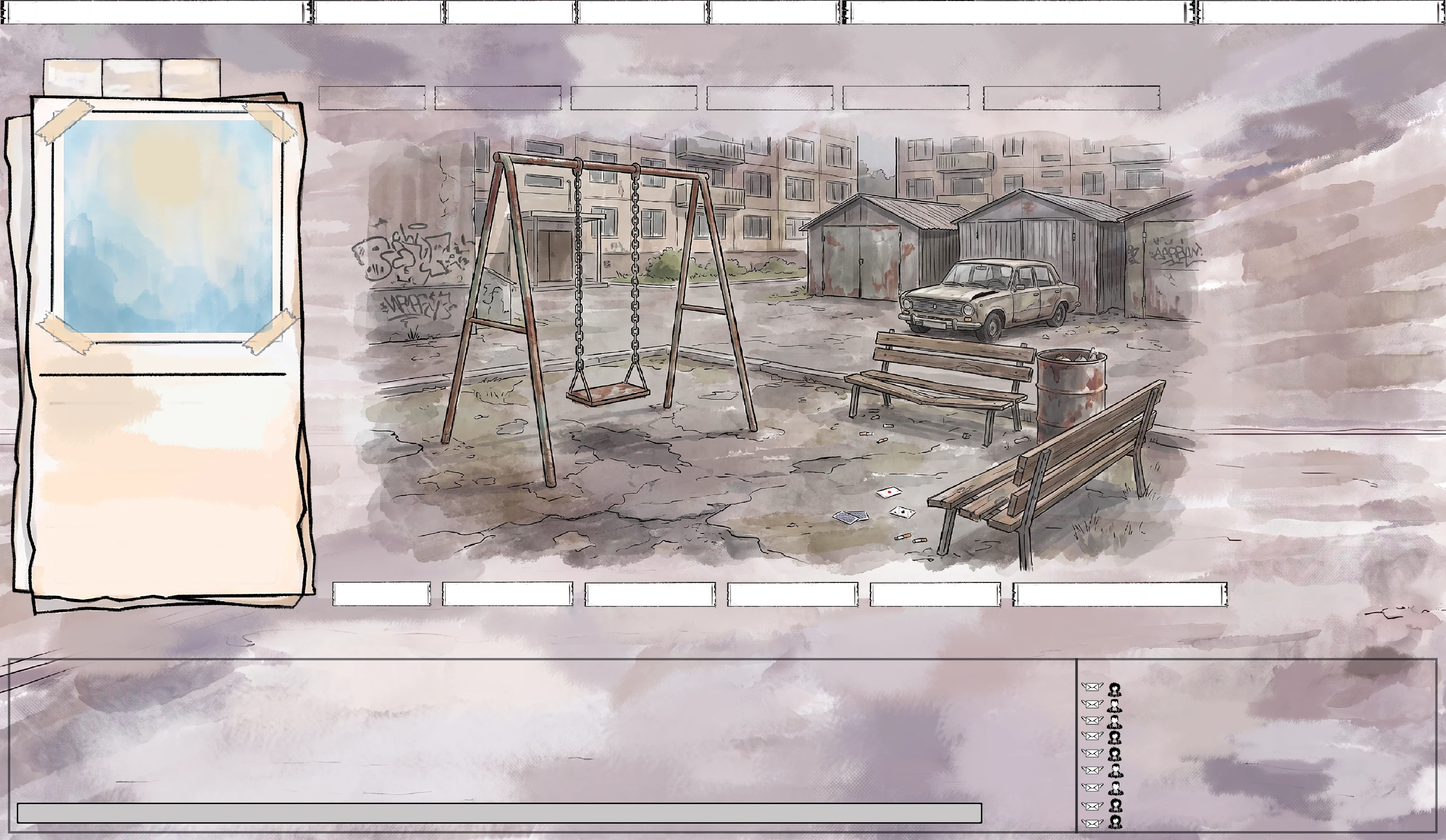
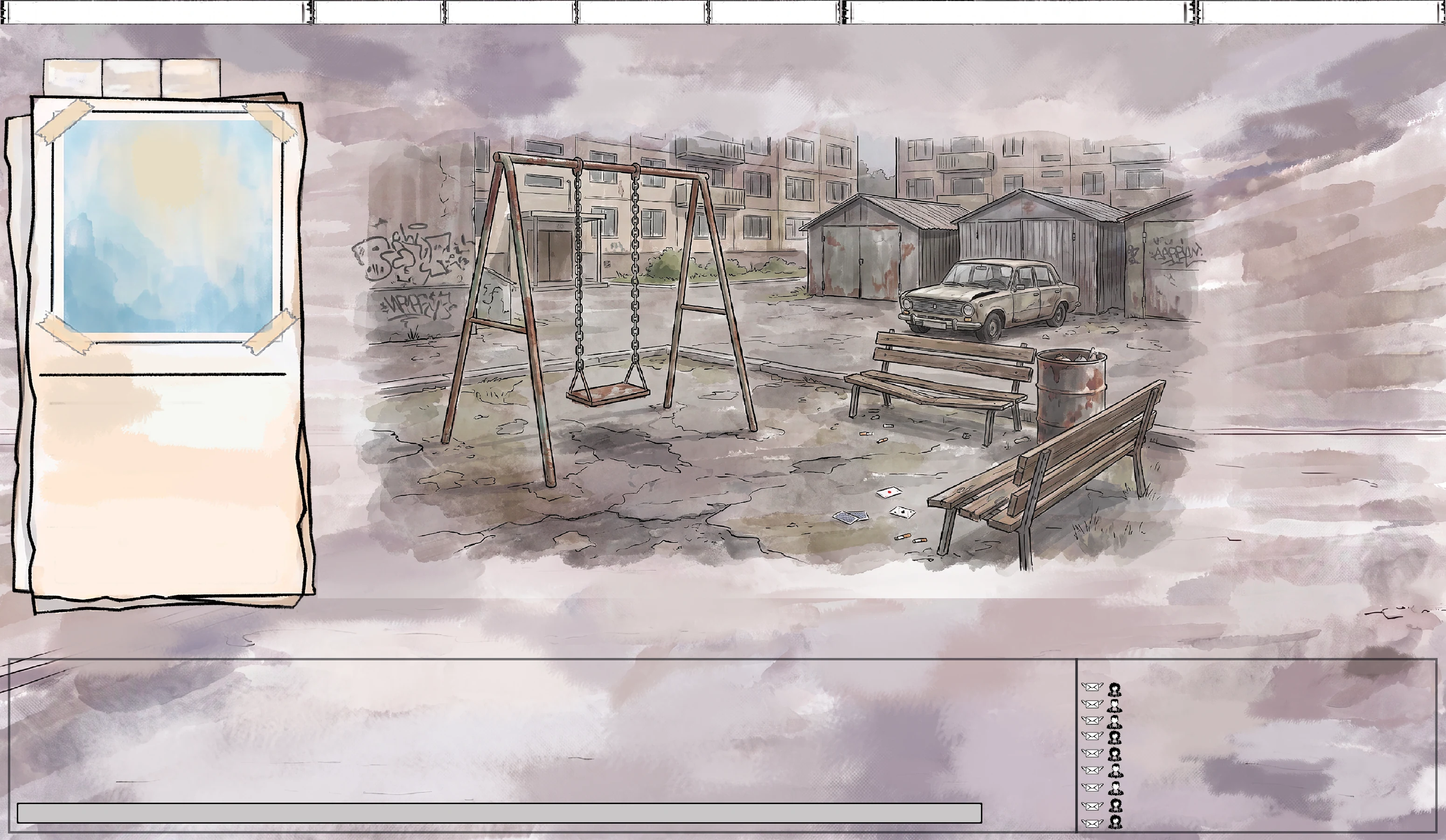
fix(ui): align illustrated navigation frames and labels

Changed region(s): [[0.2168, 0.6844, 0.8671, 0.7467]]

diff --git a/frontend/src/widgets/city-nav/city-nav.tsx b/frontend/src/widgets/city-nav/city-nav.tsx
@@ -1,14 +1,101 @@
-// =============================================================
-// Навигация главного экрана: верхнее меню, полоса районов и
-// нижняя полоса экономики. Подписи ужимаются в ширину из PSD.
-// =============================================================
+import { useEffect, useRef, useState, type ReactNode } from 'react'
 import { useNavigate, useLocation } from 'react-router-dom'
 import { useQueryClient } from '@tanstack/react-query'
 
 import { MENU } from '../../shared/lib/layout-map'
-import { FitText } from '../../shared/lib/stage'
+import { FitText, type StageBox } from '../../shared/lib/stage'
+import { SPRITES } from '../../shared/ui/sprite'
 import { useAuth } from '../../app/providers/auth-provider'
 import { authApi } from '../../shared/api/auth.api'
+
+interface StageTab {
+  key: string
+  label: string
+  to: string
+}
+
+/** Keeps the visual centre stable while only compressing labels that need it. */
+function FittedNavLabel({ children }: { children: ReactNode }) {
+  const shellRef = useRef<HTMLSpanElement>(null)
+  const textRef = useRef<HTMLSpanElement>(null)
+  const [scale, setScale] = useState(1)
+
+  useEffect(() => {
+    const shell = shellRef.current
+    const text = textRef.current
+    if (!shell || !text) return
+
+    const measure = () => {
+      const available = Math.max(0, shell.clientWidth - 14)
+      const natural = text.scrollWidth
+      setScale(natural > 0 ? Math.min(1, available / natural) : 1)
+    }
+
+    measure()
+    const observer = new ResizeObserver(measure)
+    observer.observe(shell)
+    if (document.fonts?.ready) void document.fonts.ready.then(measure)
+    return () => observer.disconnect()
+  }, [children])
+
+  return (
+    <span ref={shellRef} className="stage-nav__label">
+      <span
+        ref={textRef}
+        className="stage-nav__label-text"
+        style={{ transform: `scaleX(${scale})` }}
+      >
+        {children}
+      </span>
+    </span>
+  )
+}
+
+/** Frame and label share one grid cell, so neither can drift from the other. */
+function FramedTabs({
+  tabs, box, gap, fontSize, activeKey, onSelect,
+}: {
+  tabs: readonly StageTab[]
+  box: StageBox
+  gap: number
+  fontSize: number
+  activeKey: string
+  onSelect: (tab: StageTab) => void
+}) {
+  return (
+    <nav
+      className="stage-nav"
+      style={{
+        left: box.x,
+        top: box.y,
+        width: box.w,
+        height: box.h,
+        gridTemplateColumns: `repeat(${tabs.length}, minmax(0, 1fr))`,
+        gap,
+      }}
+    >
+      {tabs.map(tab => {
+        const locked = tab.to.startsWith('/soon/')
+        return (
+          <button
+            type="button"
+            key={tab.key}
+            className={'stage-nav__button t-sign'
+              + (locked ? ' is-locked' : '')
+              + (activeKey === tab.key ? ' is-active' : '')}
+            style={{ fontSize }}
+            onClick={() => onSelect(tab)}
+            title={locked ? 'Откроется на следующих этапах' : tab.label}
+            data-stage-nav={tab.key}
+          >
+            <img className="stage-nav__frame" src={SPRITES['nav-frame']} alt="" draggable={false} />
+            <FittedNavLabel>{tab.label}</FittedNavLabel>
+          </button>
+        )
+      })}
+    </nav>
+  )
+}
 
 export function TopNav() {
   const navigate = useNavigate()
@@ -17,7 +104,7 @@ export function TopNav() {
   const { signOut } = useAuth()
 
   const handleLogout = async () => {
-    try { await authApi.logout() } catch { /* сессия могла истечь — выходим всё равно */ }
+    try { await authApi.logout() } catch { /* Сессия могла истечь, выходим всё равно. */ }
     signOut()
     navigate('/login')
   }
@@ -56,30 +143,30 @@ export function TopNav() {
   )
 }
 
-export function districtKey(path:string){if(['/industrial','/work','/resources','/upgrades','/repair'].some(x=>path.startsWith(x))||path.includes('equipment-production'))return'industrial';if(path.startsWith('/agriculture')||['farms','kolhoz','plants','products'].some(x=>path.includes(x)))return'agriculture';if(['/market','/shop','/shops/private'].some(x=>path.startsWith(x)))return'market';return''}
+export function districtKey(path: string) {
+  if (['/industrial', '/work', '/resources', '/upgrades', '/repair'].some(x => path.startsWith(x))
+    || path.includes('equipment-production')) return 'industrial'
+  if (path.startsWith('/agriculture')
+    || ['farms', 'kolhoz', 'plants', 'products'].some(x => path.includes(x))) return 'agriculture'
+  if (['/market', '/shop', '/shops/private'].some(x => path.startsWith(x))) return 'market'
+  return ''
+}
 
 export function DistrictTabs() {
   const navigate = useNavigate()
   const location = useLocation()
+  const exact = MENU.districts.find(tab => tab.to === location.pathname)?.key
+  const activeKey = districtKey(location.pathname) || exact || ''
 
   return (
-    <>
-      {MENU.districts.map(d => {
-        const active = location.pathname === d.to || districtKey(location.pathname) === d.key
-        return (
-          <FitText
-            key={d.key}
-            x={d.x} y={d.y} w={d.w} size={MENU.navFontSize} dy={MENU.navDy}
-            as="button"
-            className={'t-sign stage-link' + (active ? ' is-active' : '')}
-            onClick={() => navigate(d.to)}
-            title={d.label}
-          >
-            {d.label}
-          </FitText>
-        )
-      })}
-    </>
+    <FramedTabs
+      tabs={MENU.districts}
+      box={MENU.districtStrip}
+      gap={MENU.districtGap}
+      fontSize={MENU.navFontSize}
+      activeKey={activeKey}
+      onSelect={tab => navigate(tab.to)}
+    />
   )
 }
 
@@ -88,11 +175,16 @@ export function BottomTabs() {
   const location = useLocation()
   const key = districtKey(location.pathname)
   const tabs = MENU.rooms[key] ?? MENU.bottomTabs
-  const startX = 382.5
-  const step = Math.min(155, 870 / Math.max(1, tabs.length))
-  return <>{tabs.map((t, index) => (
-    <FitText key={t.key} x={startX + index * step} y={630} w={Math.max(85, step - 18)} size={MENU.bottomFontSize} dy={MENU.bottomDy}
-      as="button" className={'t-sign stage-link' + (t.to.startsWith('/soon/') ? ' is-locked' : '') + (location.pathname === t.to ? ' is-active' : '')}
-      onClick={() => navigate(t.to)} title={t.label}>{t.label}</FitText>
-  ))}</>
+  const activeKey = tabs.find(tab => tab.to === location.pathname)?.key ?? ''
+
+  return (
+    <FramedTabs
+      tabs={tabs}
+      box={MENU.bottomStrip}
+      gap={MENU.bottomGap}
+      fontSize={MENU.bottomFontSize}
+      activeKey={activeKey}
+      onSelect={tab => navigate(tab.to)}
+    />
+  )
 }

diff --git a/frontend/src/shared/lib/layout-map.ts b/frontend/src/shared/lib/layout-map.ts
@@ -32,21 +32,25 @@ export const MENU = {
   navDy: -2,
 
   /** районы города — переключают содержимое центрального вьюпорта */
+  districtStrip: box(340.5, 91.5, 976.5, 27),
+  districtGap: 8,
   districts: [
-    { key: 'center', label: 'Центр', x: 350, y: 98, w: 62, to: '/' },
-    { key: 'market', label: 'Рынок', x: 468, y: 98, w: 66, to: '/market' },
-    { key: 'industrial', label: 'Промзона', x: 588, y: 98, w: 100, to: '/industrial' },
-    { key: 'agriculture', label: 'Фермы и колхозы', x: 724, y: 98, w: 162, to: '/agriculture' },
-    { key: 'station', label: 'Вокзал', x: 914, y: 98, w: 70, to: '/station' },
-    { key: 'garages', label: 'Гаражи', x: 1020, y: 98, w: 74, to: '/garages' },
-    { key: 'suburb', label: 'Спальный район', x: 1124, y: 98, w: 160, to: '/pvp' },
+    { key: 'center', label: 'Центр', to: '/' },
+    { key: 'market', label: 'Рынок', to: '/market' },
+    { key: 'industrial', label: 'Промзона', to: '/industrial' },
+    { key: 'agriculture', label: 'Фермы и колхозы', to: '/agriculture' },
+    { key: 'station', label: 'Вокзал', to: '/station' },
+    { key: 'garages', label: 'Гаражи', to: '/garages' },
+    { key: 'suburb', label: 'Спальный район', to: '/pvp' },
   ],
 
   /** нижняя полоса — экономика Этапов 2–3 */
+  bottomStrip: box(356, 623, 961, 28),
+  bottomGap: 10,
   bottomTabs: [
-    { key: 'shop', label: 'Магазин', x: 382.5, y: 630, w: 72, to: '/shop' },
-    { key: 'private', label: 'Частные лавки', x: 500, y: 630, w: 110, to: '/shops/private' },
-    { key: 'inventory', label: 'Снаряжение', x: 660, y: 630, w: 95, to: '/inventory' },
+    { key: 'shop', label: 'Магазин', to: '/shop' },
+    { key: 'private', label: 'Частные лавки', to: '/shops/private' },
+    { key: 'inventory', label: 'Снаряжение', to: '/inventory' },
   ],
   rooms: {
     industrial: [

diff --git a/frontend/tests/visual/stage2.visual.spec.ts b/frontend/tests/visual/stage2.visual.spec.ts
@@ -122,6 +122,29 @@ test.describe('Stage 2 visual and browser flow', () => {
     await expect(page.locator('form')).toBeVisible()
   })
 
+  test('illustrated navigation labels stay centred in their frames', async ({ page }, testInfo) => {
+    test.skip(testInfo.project.name.startsWith('mobile'), 'Illustrated stage navigation is desktop-only')
+    await authPage(page, seller)
+    await page.goto('/industrial')
+    await expect(page.locator('.stage-nav')).toHaveCount(2)
+    await expect(page.locator('.stage-nav').nth(0).locator('.stage-nav__button')).toHaveCount(7)
+    await expect(page.locator('.stage-nav').nth(1).locator('.stage-nav__button')).toHaveCount(6)
+
+    const offsets = await page.locator('.stage-nav__button').evaluateAll(buttons => buttons.map(button => {
+      const frame = button.querySelector<HTMLElement>('.stage-nav__frame')!.getBoundingClientRect()
+      const label = button.querySelector<HTMLElement>('.stage-nav__label-text')!.getBoundingClientRect()
+      return {
+        dx: Math.abs((label.left + label.right - frame.left - frame.right) / 2),
+        inside: label.left >= frame.left - 0.1 && label.right <= frame.right + 0.1,
+      }
+    }))
+
+    for (const offset of offsets) {
+      expect(offset.dx).toBeLessThan(0.25)
+      expect(offset.inside).toBe(true)
+    }
+  })
+
   test('E2 work page shows shift controls and six workplaces', async ({ page }, testInfo) => {
     await authPage(page, seller)
     await page.goto('/work')

diff --git a/frontend/src/styles/theme.css b/frontend/src/styles/theme.css
@@ -207,6 +207,54 @@ html, body {
 .stage-link--exit { color: var(--red); }
 .stage-link--exit:hover { color: var(--red-dim); }
 
+.stage-nav {
+  position: absolute;
+  display: grid;
+}
+.stage-nav__button {
+  position: relative;
+  min-width: 0;
+  height: 100%;
+  appearance: none;
+  border: 0;
+  padding: 0;
+  background: none;
+  color: #000;
+  cursor: pointer;
+}
+.stage-nav__frame {
+  position: absolute;
+  inset: 0;
+  width: 100%;
+  height: 100%;
+  display: block;
+  pointer-events: none;
+}
+.stage-nav__label {
+  position: absolute;
+  inset: 0;
+  display: flex;
+  align-items: center;
+  justify-content: center;
+  min-width: 0;
+  overflow: hidden;
+  line-height: 1;
+  transform: translateY(-1px);
+}
+.stage-nav__label-text {
+  display: inline-block;
+  white-space: nowrap;
+  transform-origin: center;
+}
+.stage-nav__button:hover,
+.stage-nav__button.is-active { color: var(--red); }
+.stage-nav__button.is-locked { color: #6f6f6f; cursor: not-allowed; }
+.stage-nav__button.is-locked:hover { color: #6f6f6f; }
+.stage-nav__button:focus-visible {
+  outline: 2px solid var(--red);
+  outline-offset: 2px;
+}
+
 .stat-num { position: absolute; font-family: var(--font-ui); line-height: 1;
             text-shadow: 0 0 2px rgba(0, 0, 0, .55); }
 .stat-num--energy { color: var(--stat-energy); }
